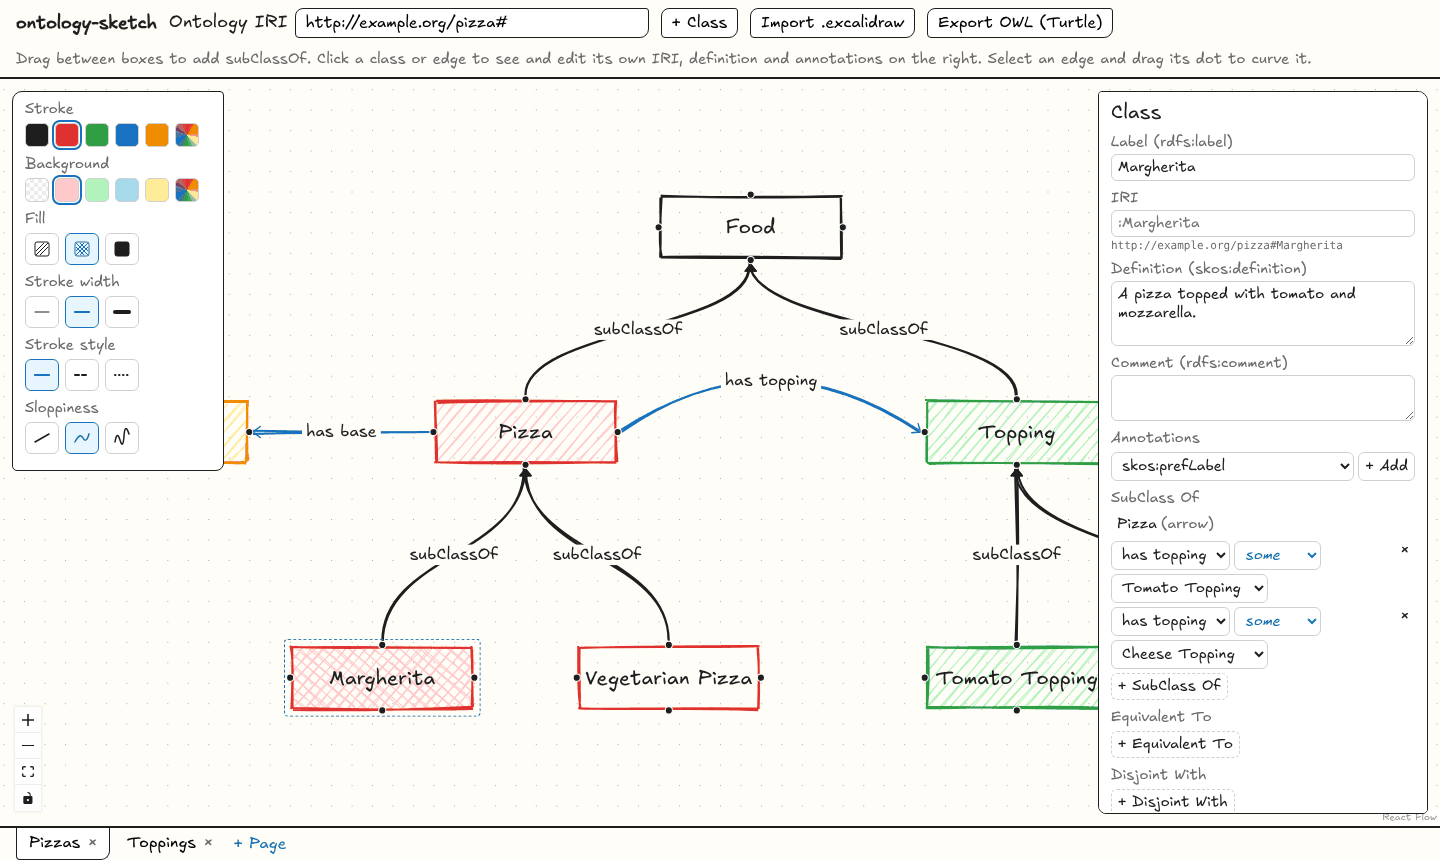
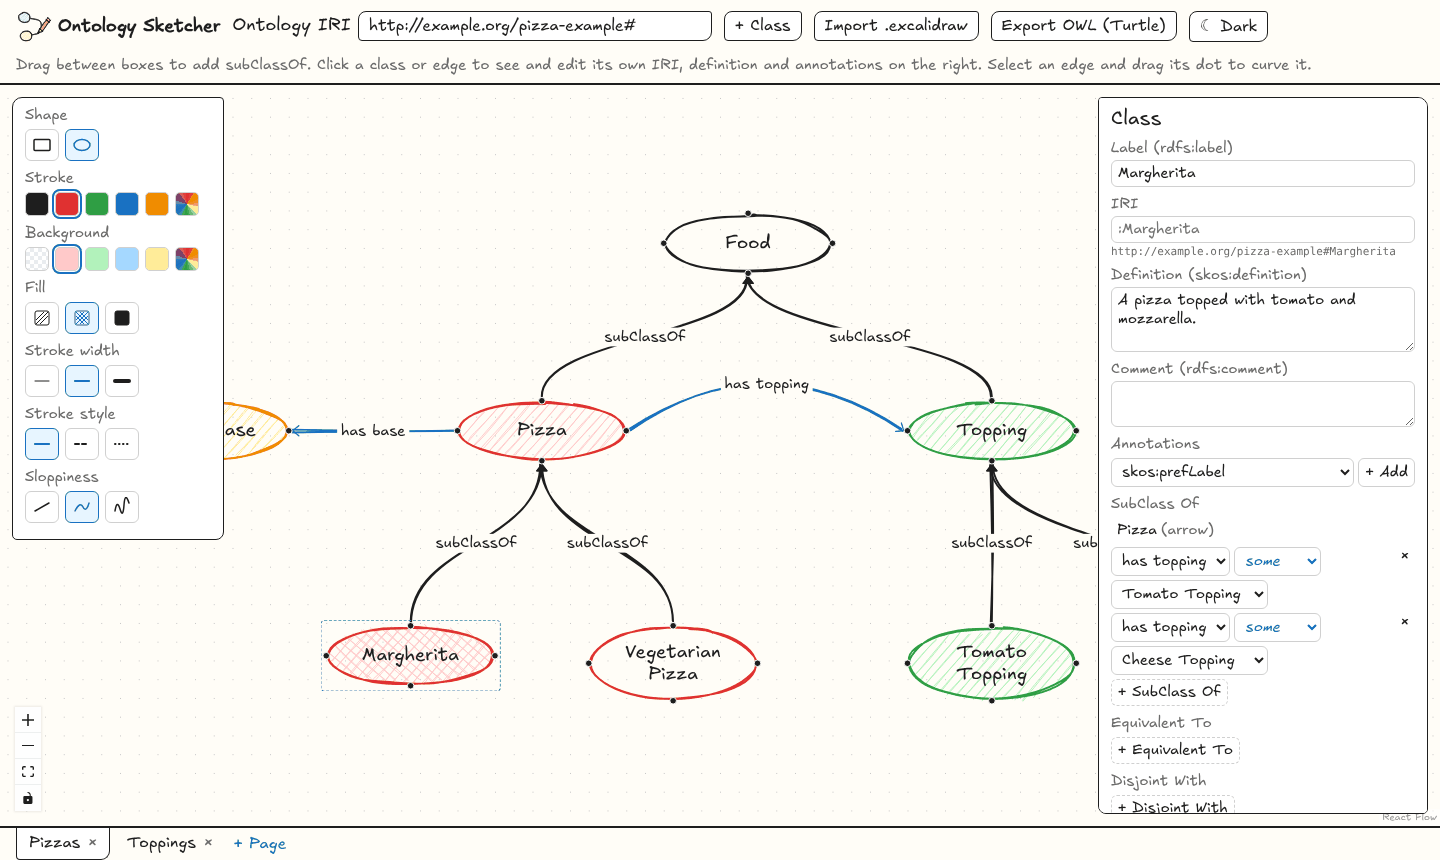
Show classes as ovals in the README screenshots
Retakes both screenshots of the pizza example on the current app with every
class drawn as an oval, and mentions the box or oval choice in the intro.

diff --git a/README.md b/README.md
@@ -10,10 +10,10 @@
 **Sketch an ontology like a whiteboard drawing, and get real OWL 2 out of it.**
 
 Ontology Sketcher is a browser-based ontology editor with the hand-drawn look of Excalidraw and the modelling
-depth of Protégé. Draw classes as boxes, connect them with arrows, refine them in an inspector, and export
+depth of Protégé. Draw classes as boxes or ovals, connect them with arrows, refine them in an inspector, and export
 valid OWL 2 in Turtle.
 
-![A pizza ontology drawn in Ontology Sketcher: hand-drawn coloured class boxes linked by subClassOf arrows and two object properties, "has topping" and "has base"](docs/screenshot-canvas.png)
+![A pizza ontology drawn in Ontology Sketcher: hand-drawn coloured class ovals linked by subClassOf arrows and two object properties, "has topping" and "has base"](docs/screenshot-canvas.png)
 
 ## Why
 
